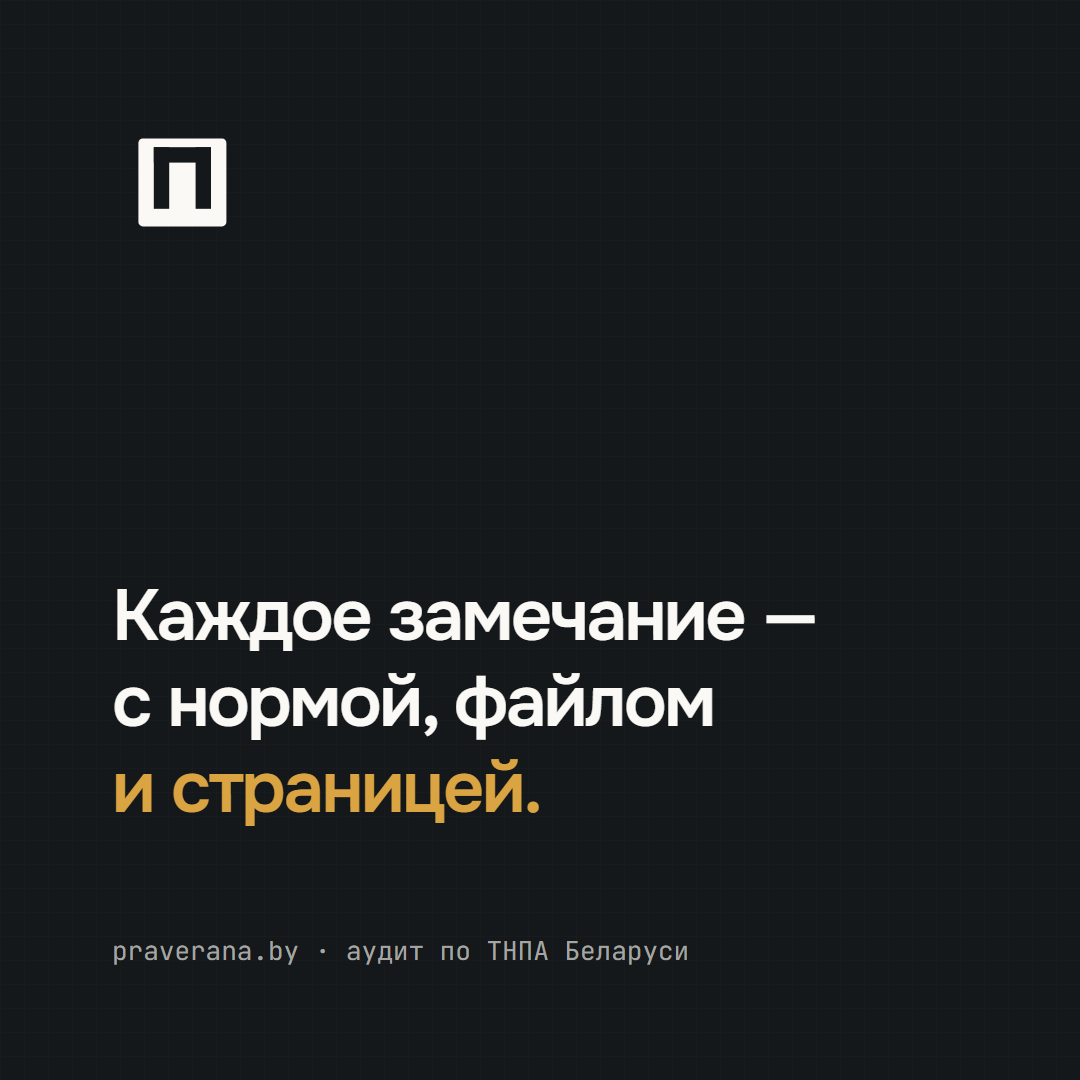
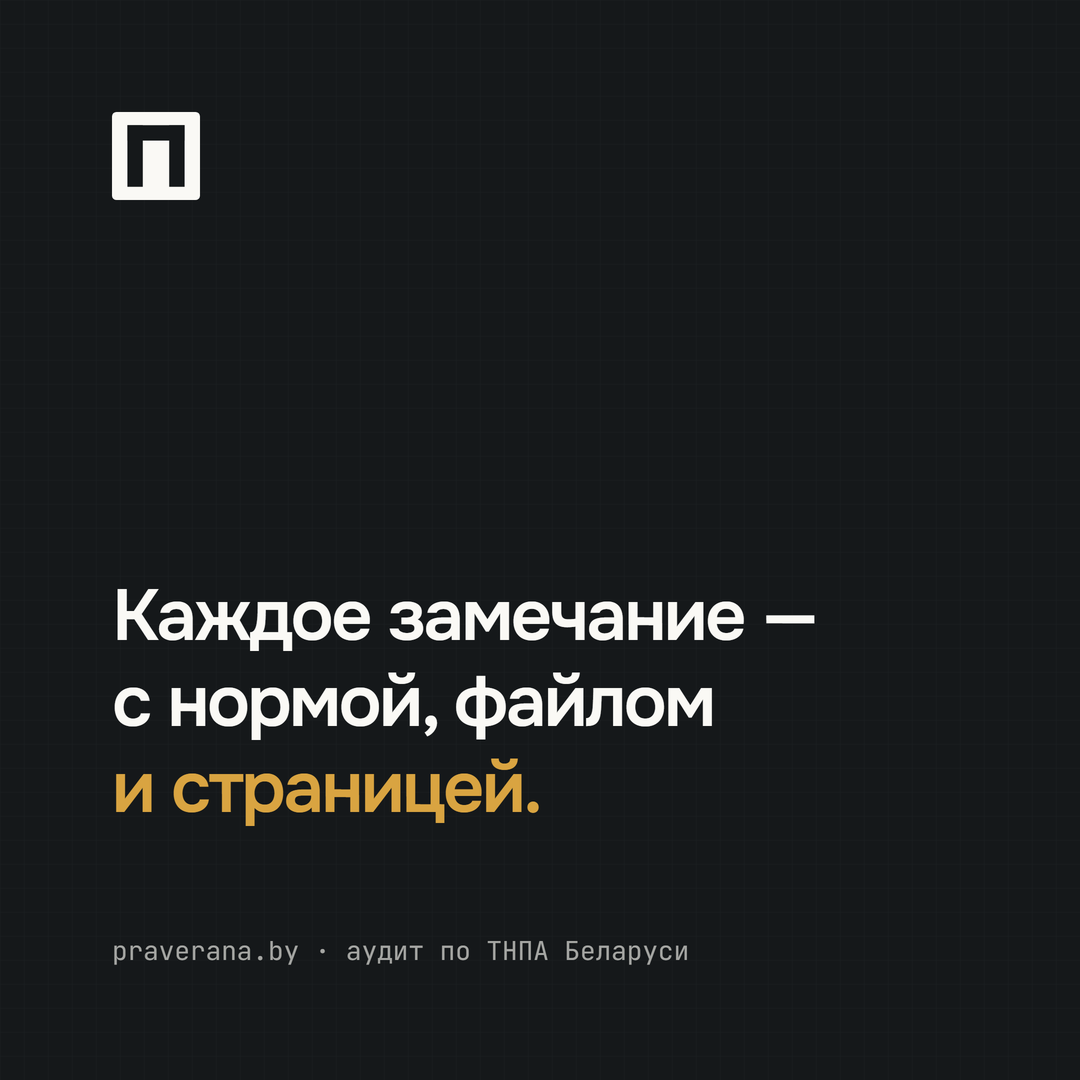
fix(brand): выровнять знак в OG и соцкарточке, превью 1:2
- группа знака сдвинута на 12 × scale: левый край плашки совпадает с x текста
  (OG 120 px, соцкарточка 112 px)
- PNG собираются из рендера 2× и уменьшаются LANCZOS до 1200×630 и 1080×1080
- /review: экраны в три колонки, превью ссылки и соцкарточки показаны 1:2
  (600×315 и 540×540) — целый масштаб, без муара на точечном фоне
- переснят бренд-бук для записи Glyphfield

Closes #31

diff --git a/app/ui/review.html b/app/ui/review.html
@@ -190,18 +190,20 @@
 
   <section>
     <h2>6. Экраны</h2>
-    <div class="grid g2">
+    <div class="grid g3">
       <a class="shot-link" href="/" target="_blank"><div class="label">Лендинг →</div>
         <img class="shot" src="assets/img/screen-landing.png" alt="Лендинг"></a>
       <a class="shot-link" href="/app" target="_blank"><div class="label">Инструмент →</div>
         <img class="shot" src="assets/img/screen-app.png" alt="Инструмент"></a>
       <a class="shot-link" href="/brand" target="_blank"><div class="label">Бренд-бук →</div>
         <img class="shot" src="assets/img/screen-brand.png" alt="Бренд-бук"></a>
-      <div>
-        <div class="label">Превью ссылки 1200 × 630</div>
-        <img class="shot" src="assets/img/og.png" alt="OG">
-        <div class="label" style="margin-top:14px">Соцкарточка 1080 × 1080</div>
-        <img class="shot" src="assets/img/social-square.png" alt="Соцкарточка" style="max-width:360px">
+      <div style="grid-column:1/-1">
+        <div class="label">Превью ссылки 1200 × 630 · показ 1:2</div>
+        <img class="shot" src="assets/img/og.png" width="600" height="315" alt="Превью ссылки" style="width:600px;max-width:100%">
+      </div>
+      <div style="grid-column:1/-1">
+        <div class="label">Соцкарточка 1080 × 1080 · показ 1:2</div>
+        <img class="shot" src="assets/img/social-square.png" width="540" height="540" alt="Соцкарточка" style="width:540px;max-width:100%">
       </div>
     </div>
   </section>
